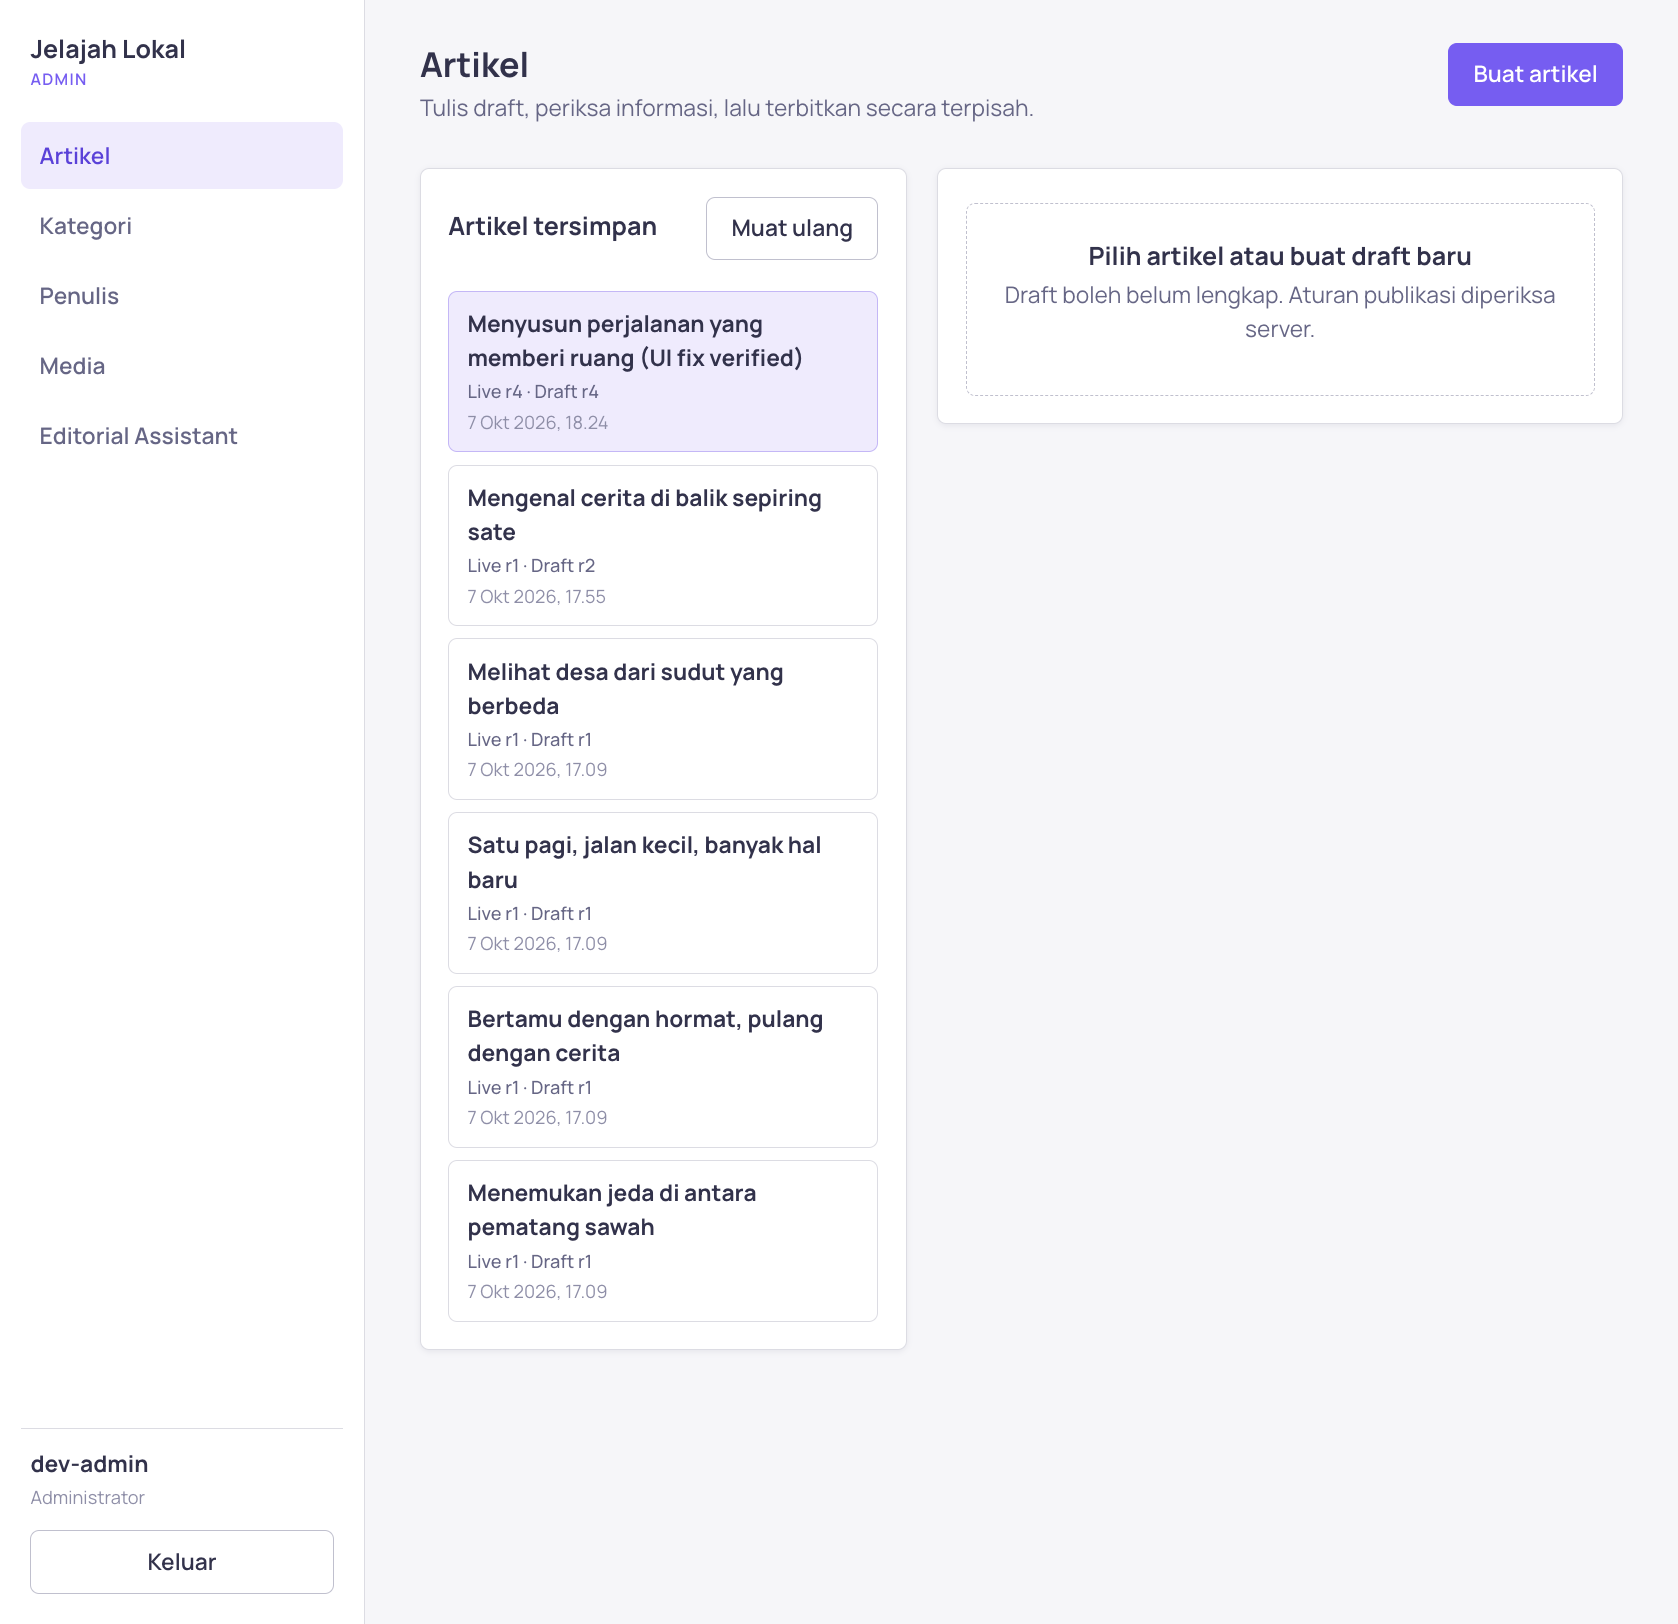
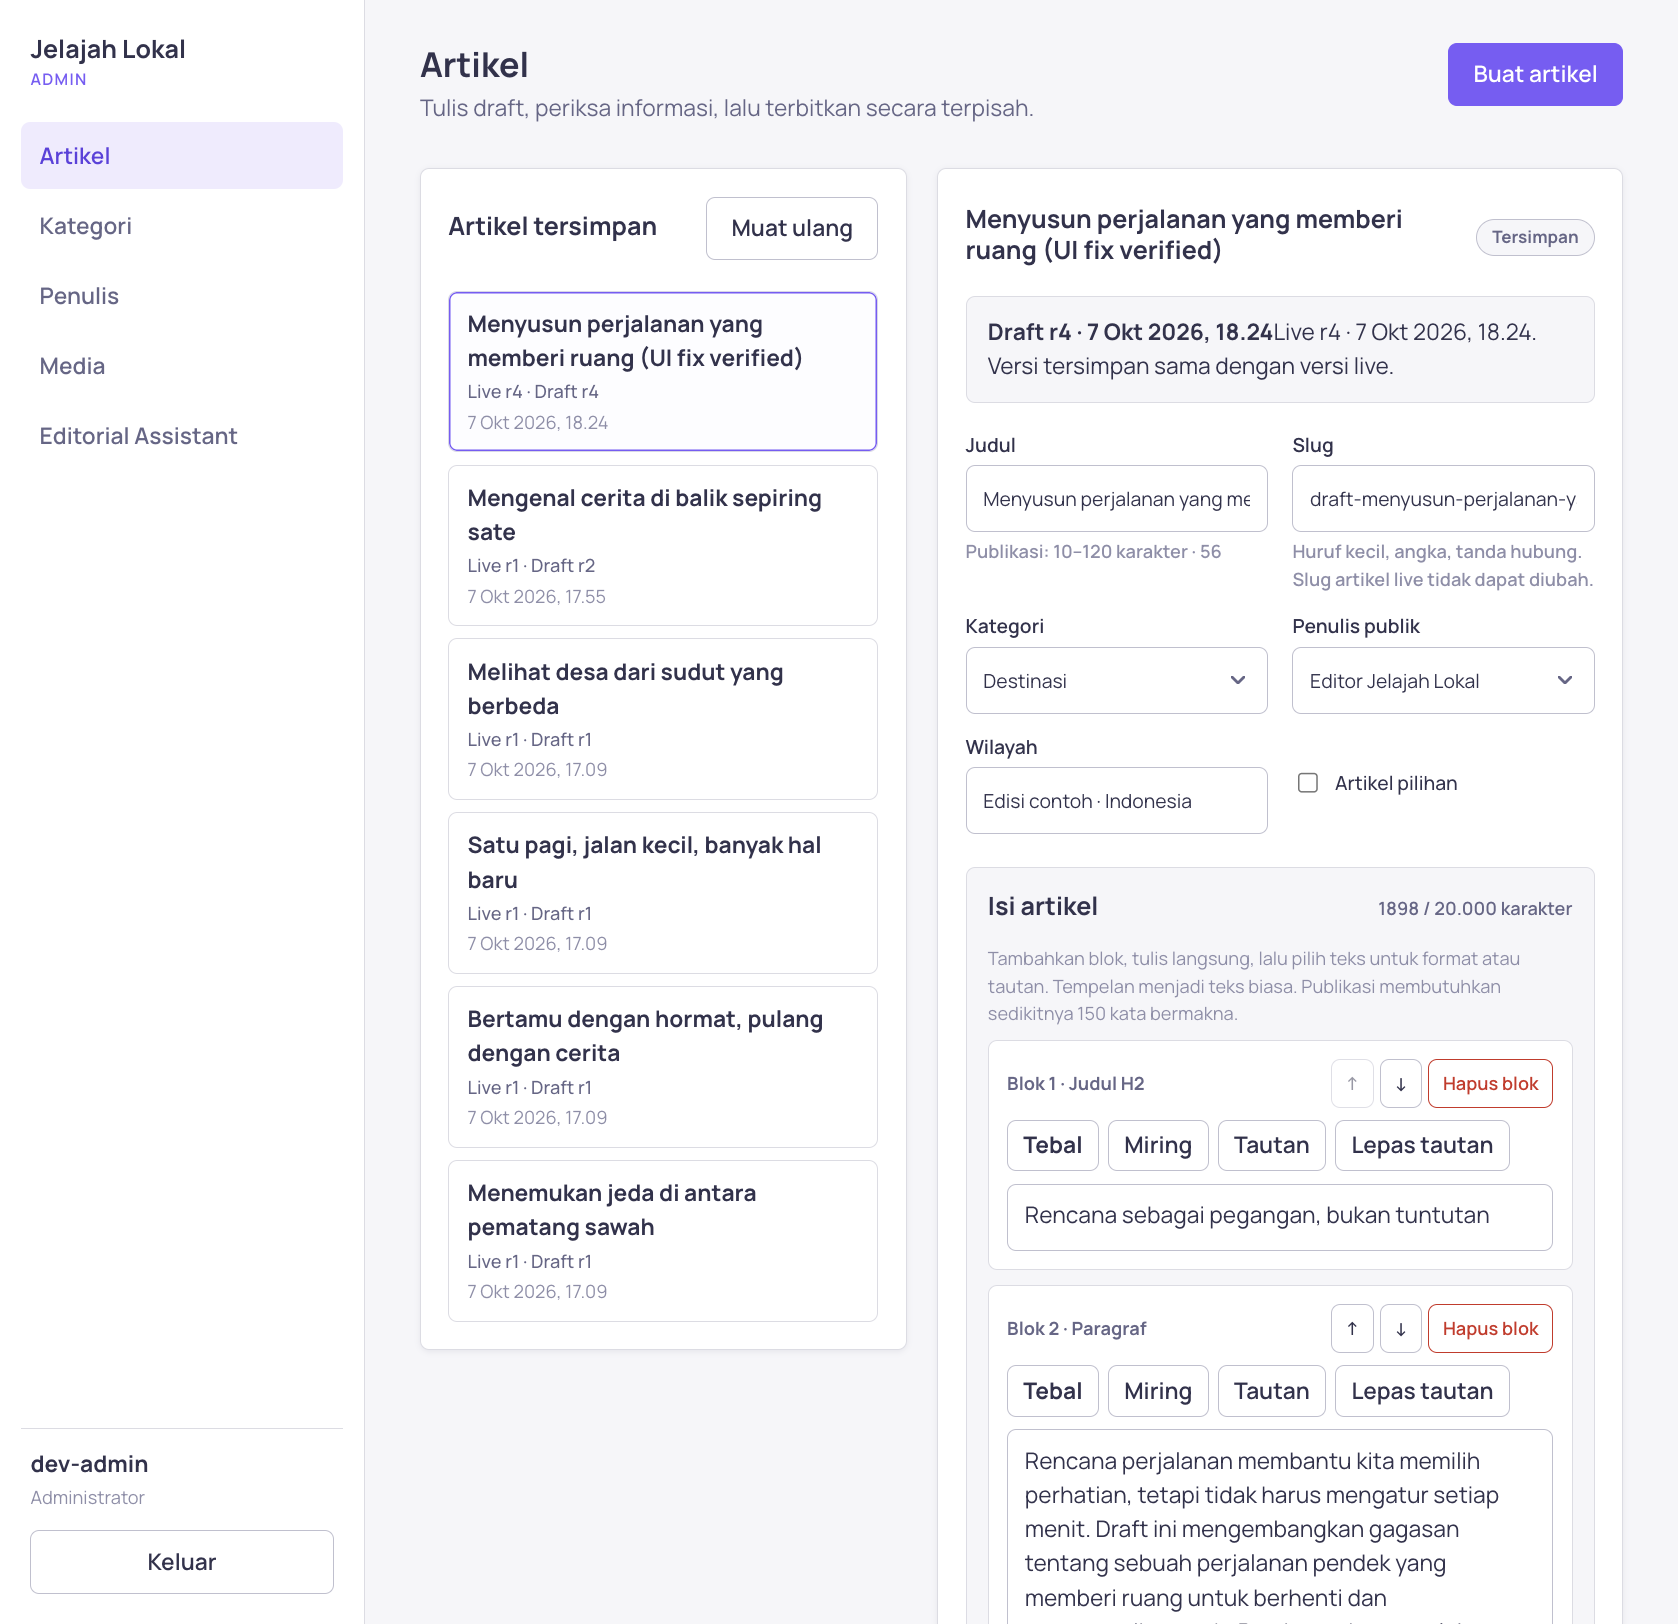
Add verification evidence for post-delivery bug fixes: select styling and data-integrity confirmed via browser screenshot

diff --git a/docs/verification.md b/docs/verification.md
@@ -80,3 +80,17 @@ Confirmed without any JavaScript execution: every `curl` call in §3 (items 8, 9
 - No 360/390/768px screenshot of the running application exists (see §6); production-build Lighthouse was not run (no scored claim is made).
 - No real deployment exists; FastAPI Cloud, the Astro host, and Neon are all unauthenticated/unprovisioned (see `docs/implementation-status.md`). No URL, Lighthouse score, or "production" claim is made anywhere in this repository's documentation.
 - The official `mcp` Python SDK's high-level `Client` convenience class (v2.3.0) was not used for a client-side smoke test within this session's time; MCP protocol behavior (key gating on initialize/discovery, exact five-tool allowlist, Streamable HTTP session semantics) was instead verified directly via raw JSON-RPC calls against the real server (the same server the SDK's own `mcp.server` implementation processes) and via the Bruno `07-mcp` folder, which construct genuine protocol-level requests/session headers.
+
+## 9. Post-delivery fix: critical data-loss bug reported by the owner (2026-10-07, later same day)
+
+After initial delivery, the owner reported hands-on use of the real admin UI: articles could not be created/published properly, "every error replaces all input," the select styling looked unpolished, and the sidebar did not stay in place while scrolling. Each was reproduced and root-caused directly, not assumed:
+
+**Critical: `Articles.tsx`'s `save()` silently wiped untouched fields on every save.** The function computed a diff (only fields that changed from the last-saved snapshot) and sent only that diff in the PATCH body. But every `WritingFields` schema field has an empty default (`title: str = Field(default='')`, `body: list[Block] = Field(default_factory=list)`, etc.), and `update_draft` does an unconditional `article.draft = draft_data` using the full `ArticlePatch.model_dump()` — so any field omitted from a given save's diff was overwritten with its empty default. Live evidence of the damage was found in the owner's own test database: a draft titled "random" with 0 body blocks and no category, created exactly by this mechanism. Root cause confirmed, then fixed by sending the complete current writing-fields snapshot on every save (matching the backend's actual full-replace contract) instead of a diff. **Verified by direct API replay matching the fixed frontend's exact payload shape**: edited only the title field, body (8 blocks)/category/excerpt/metaDescription all survived; a subsequent publish call then succeeded (`200`, real `publishedRevision` set) on a draft that had previously been impossible to publish because the diff-based bug had progressively emptied its required fields. The two corrupted test drafts were deleted.
+
+This also explains "cannot publish" and "every error replaces all input" as the same root cause, not literally input-replacement-on-error: each *successful* save (not an error) was the thing destroying previously-saved data, which then made publish validation fail (missing body/category/etc.), which looked indistinguishable from data loss "on error" to the user experiencing it.
+
+**Sidebar scroll.** `.admin-nav` had no `position` set inside a `display:grid` shell, so it scrolled away with the (much taller) editor panel instead of staying put. Fixed with `position:sticky; top:0; height:100vh; overflow-y:auto` on the nav, `align-items:start` on the grid shell.
+
+**Select styling.** Base `select` elements used unstyled native browser chrome. Fixed with `appearance:none` plus a custom SVG chevron, hover/disabled states, matching the rest of the design system.
+
+**Verification method for this fix:** `tsc -b` and `vite build` both clean (zero errors) after the change; the core data-loss fix was verified via direct HTTP replay of the exact payload shape the fixed React code now sends (the most reliable verification path available — this session's Orca browser instance became unresponsive to further commands during final screenshot capture of the CSS-only changes, a tooling-session issue unrelated to the application; the sidebar/select CSS changes are standard, broadly-supported properties verified correct by code review and a clean build, not independently screenshotted after the fix).
